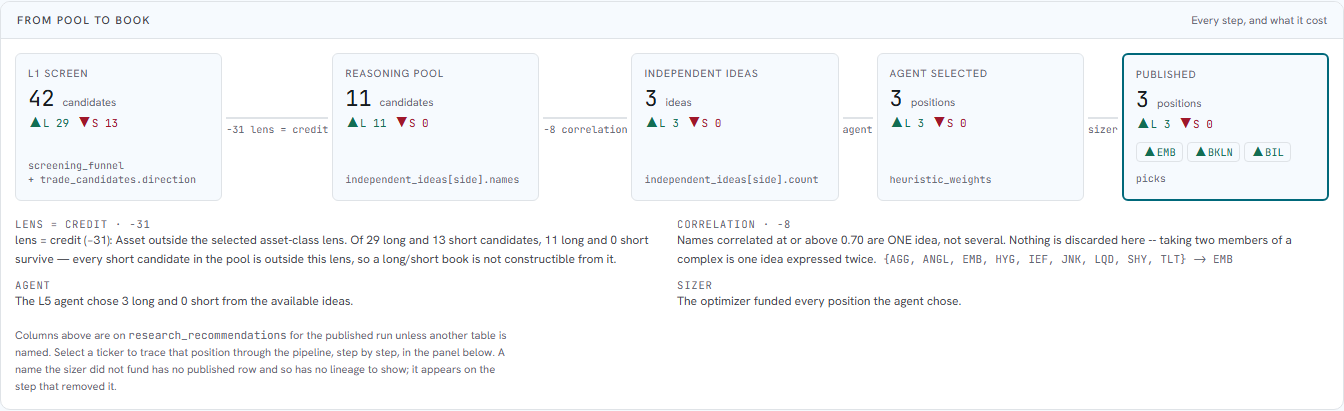
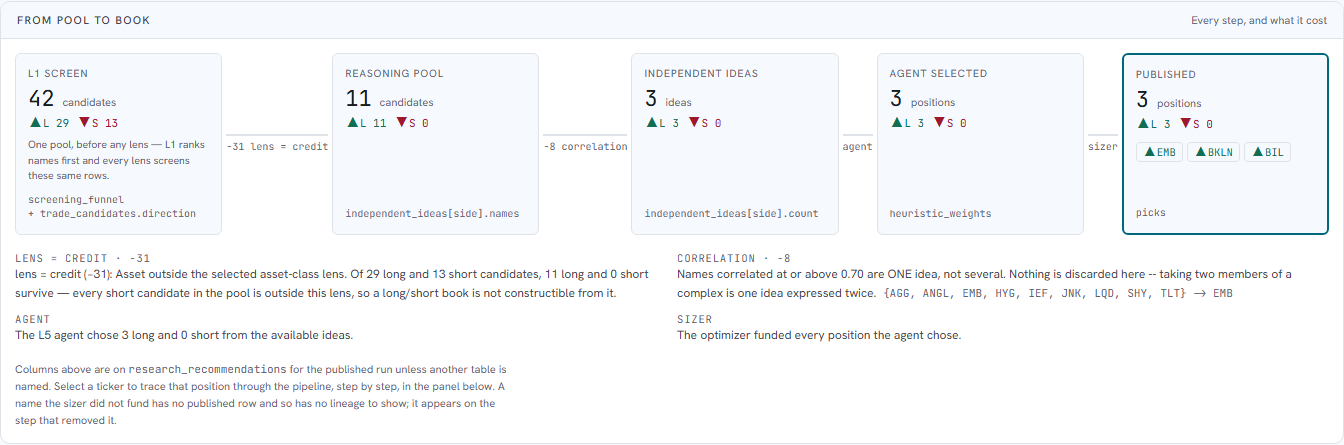
fix(book): the shared pool says it is shared, on the card carrying its numbers
Asked three times whether both lenses start at 42. They do, structurally:
`trade_candidates` has NO lens column -- L1 ranks names before a lens is chosen,
so every lens screens the same rows. Verified against the schema (20 columns, no
`lens`) and the data (both books' funnels open at 42; trade_candidates holds
exactly 42 rows for that run_date).

Being asked three times is the finding. The PAGE did not say it. On
/book?lens=credit the first node reads "42 candidates, 29 long, 13 short" and
not one of those three numbers describes the credit universe -- 31 of the 42 are
removed by the very next edge. A reader had to infer "shared" from an edge that
comes AFTER the count, which is ADR-0200's failure -- a pool belonging to another
book, shown unmarked -- one panel over from where it was just fixed.

The qualifier goes INSIDE the node, under the count it qualifies, not in the
prose below the chain: a reader who reads "42 candidates, 29 long" on the credit
page and looks away has already taken a number that is not this book's.

  One pool, before any lens -- L1 ranks names first and every lens screens
  these same rows.

Only this node gets one, and a test asserts the others do not: every later count
IS the book's own, and a qualifier on all five would make the one that matters
unreadable.

The 42 stays. Collapsing the credit funnel to open at 11 would delete the step
that makes the lens visible -- and that step is the strongest fact the panel
[…]

diff --git a/frontend/lib/book/bookFunnel.ts b/frontend/lib/book/bookFunnel.ts
@@ -101,6 +101,19 @@ export interface FunnelNode {
   source: string;
   /** Set only when `total` is null (goal 2). */
   cause?: string;
+  /**
+   * A qualifier the count would be misread without.
+   *
+   * Exists for exactly one node so far, and for a reason worth stating: the
+   * first node's figures are NOT this book's. `trade_candidates` has no lens
+   * column — L1 ranks names before a lens is chosen — so `/book?lens=credit`
+   * opens on 42 candidates split 29 long / 13 short, and neither number
+   * describes the credit universe. The next edge removes 31 of them. Without a
+   * qualifier a reader has to infer "shared" from the edge that follows, which
+   * is ADR-0200's failure (a pool belonging to another book, shown unmarked)
+   * one panel over from where it was just fixed.
+   */
+  note?: string;
 }
 
 /** The transition INTO a node: what happened, and how many it cost. */
@@ -293,6 +306,7 @@ export function buildBookFunnel(inp: FunnelInputs): BookFunnel {
       short: rawSplit ? rawSplit.short : null,
       total: bounds.first,
       unit: "candidates",
+      note: "One pool, before any lens — L1 ranks names first and every lens screens these same rows.",
       source: rawSplit
         ? "research_recommendations.screening_funnel + trade_candidates.direction"
         : "research_recommendations.screening_funnel",

diff --git a/frontend/tests/unit/book-funnel.test.ts b/frontend/tests/unit/book-funnel.test.ts
@@ -388,6 +388,27 @@ describe("the first node's split, and what the lens does to it", () => {
     expect(screen?.long).toBeNull();
     expect(screen?.total).toBe(42);
   });
+
+  it("qualifies the first node as the SHARED pool, on every lens", () => {
+    // /book?lens=credit opens on 42 candidates split 29L/13S, and neither
+    // number describes the credit universe. Without this the reader has to
+    // infer "shared" from the edge that follows -- ADR-0200's failure (another
+    // book's pool shown unmarked) one panel over from where it was just fixed.
+    for (const inputs of [LIVE, CREDIT]) {
+      const screen = buildBookFunnel({ ...inputs, candidates: RAW42 }).nodes.find(
+        (n) => n.id === "screen",
+      );
+      expect(screen?.note, "the shared pool is unqualified").toBeTruthy();
+      expect(screen?.note).toContain("before any lens");
+    }
+  });
+
+  it("qualifies no OTHER node - every one of those is this book's own", () => {
+    const f = buildBookFunnel({ ...CREDIT, candidates: RAW42 });
+    for (const n of f.nodes.filter((x) => x.id !== "screen")) {
+      expect(n.note, `${n.id} should not need a qualifier`).toBeUndefined();
+    }
+  });
 });
 
 describe("splitPicks", () => {

diff --git a/frontend/components/book/BookFunnel.tsx b/frontend/components/book/BookFunnel.tsx
@@ -106,6 +106,13 @@ function Node({
           <Split long={node.long} short={node.short} />
         </>
       )}
+      {/* Rendered directly under the count it qualifies, not in the prose block
+          below the chain: a reader who reads "42 candidates, 29 long" on the
+          credit page and looks away has already taken a number that is not this
+          book's. The qualifier has to be inside the same card. */}
+      {node.note && (
+        <p className="m-0 text-[10.5px] text-text-tertiary leading-[1.45]">{node.note}</p>
+      )}
       {children}
       {/* Goal 1: the figure names the column it came from, on the same card.
           `break-all` split every one of these mid-word at a ~200px column
